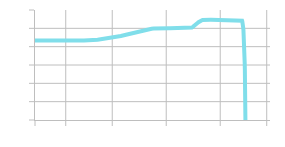
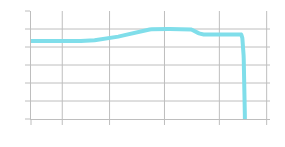
Plot update

Changed region(s): [[0.0842, 0.0544, 0.9544, 0.8707], [0.3649, 0.2721, 0.4211, 0.5442]]

diff --git a/AudioBeamformer/GUI/qml/audio_processing_col.qml b/AudioBeamformer/GUI/qml/audio_processing_col.qml
@@ -206,17 +206,7 @@ Item{
                     anchors.topMargin: 8
                     onCurrentIndexChanged: {
                         backend.getEqualizerProfile(ap_equalizer_combobox.currentIndex)
-                        var list = backend.getEqualizerList
-                        var xVal = list[0]
-                        var yVal = list[1]
-                        for (let i = 0; i < equalizer_plot.count; i++) {
-                            equalizer_plot.remove(i)
-                        
-                        }
-                        for (let i = 0; i < xVal.length; i++) {
-                            equalizer_plot.append(xVal[i],yVal[i])
-                         }
-
+                        equalizer_plot.source = backend.eqPath + ap_equalizer_combobox.currentIndex + ".png"
                     }
                 }
         }
@@ -401,13 +391,14 @@ Item{
             sourceSize.height: 122
         }
         Image{
+            id: equalizer_plot
             visible: ap_equalizer_switch.checked
             anchors.top: parent.top
             anchors.left: parent.left
             anchors.topMargin:18
             anchors.leftMargin: 368
             fillMode: Image.PreserveAspectFit
-            source: backend.eqPath
+            source: {backend.eqPath + "0.png"}
             width: 170
             //height: 90            
         }

diff --git a/AudioBeamformer/Modules/AudioProcessing.py b/AudioBeamformer/Modules/AudioProcessing.py
@@ -90,6 +90,7 @@ class AudioProcessing:
         self.__source_dict = {}
         self.__equalizer_profile_list = {}
         self.__equalizerList = []
+        self.__equalizer_tabs = []
         self.__stream_running = False
         self._enableMagic = False
         self._player = None
@@ -98,10 +99,11 @@ class AudioProcessing:
         # Equalizer initialization
         self.__equalier_dict_path = os.path.dirname(os.path.realpath(__file__)) + "/Files/equalizer_dict.txt"
         with open(self.__equalier_dict_path) as f:
-            for line in f.readlines():
+            for i,line in enumerate(f.readlines()):
                 line_tupel = ast.literal_eval(line)
                 self.__equalizerList.append(line_tupel[0])
                 self.__equalizer_profile_list[line_tupel[0]] = line_tupel[1]
+                self.__equalizer_tabs.append(self.equalizer(line_tupel[1],i))
         self._equalizer_filter = np.ones(self.equ_window_size)
 
     def begin(self):
@@ -236,7 +238,7 @@ class AudioProcessing:
     def getEqualizerProfileList(self):
         return list(self.__equalizer_profile_list.keys())
 
-    def equalizer(self, gain_dict):
+    def equalizer(self, gain_dict, profile):
         taps = np.zeros(self.equ_window_size,dtype=np.float32)
         for freq in gain_dict:
             if freq[0] == 0:
@@ -249,7 +251,7 @@ class AudioProcessing:
                                [v/self._samplerate*2 for v in freq],
                                window=gain_dict[freq]["f_type"],
                                pass_zero=False) * gain_dict[freq]["band_gain"]
-        
+        self.createEqualizerPlot(profile, taps)
         return taps
 
     def createEqualizerPlot(self, profile, taps):
@@ -258,8 +260,8 @@ class AudioProcessing:
         self._plotter.generatePlot(w, np.abs(h), path)
 
     def setEqualizerProfile(self, profile):
-        self._equalizer_filter = self.equalizer(self.__equalizer_profile_list[self.__equalizerList[profile]])
-        self.createEqualizerPlot(profile, self._equalizer_filter)
+        self._equalizer_filter = self.__equalizer_tabs[profile]
+        #self.createEqualizerPlot(profile, self._equalizer_filter)
 
     def enableInterpolation(self,enable):
         if self._fpga_controller:

diff --git a/AudioBeamformer/GUI/GUI.py b/AudioBeamformer/GUI/GUI.py
@@ -169,13 +169,13 @@ class MainWindow(QObject):
         self.__eq_0_int_1_am_1 = Path("images") / "eq_0_int_1_AM.png"
         self.__eq_0_int_0_am_1 = Path("images") / "eq_0_int_0_AM.png"
         self.__eq_1_int_0_am_1 = Path("images") / "eq_1_int_0_AM.png"
-        self.__eq_1_int_1_am_0 = Path("images") / "All_active_MAM.png"
+        self.__eq_1_int_1_am_0 = Path("images") / "All_active_MAM.svg"
         self.__eq_0_int_1_am_0 = Path("images") / "eq_0_int_1_MAM.png"
         self.__eq_0_int_0_am_0 = Path("images") / "eq_0_int_0_MAM.png"
         self.__eq_1_int_0_am_0 = Path("images") / "eq_1_int_0_MAM.png"
         self.__am_holder = Path("images") / "AM_Holder.png"
         self.__loadingImage = Path("images") / "Audio-Beamformer_Gray.png"
-        self.__eq_path = Path("images") / "eq_1.png"  # TODO: Change this dynamically
+        self.__eq_path = Path("images") / "eq_"  # TODO: Change this dynamically
         self.__equalizer_profile = 0
         if self._audio_processing:
             self.__equalizer_holder = self._audio_processing.getEqualizerList()
